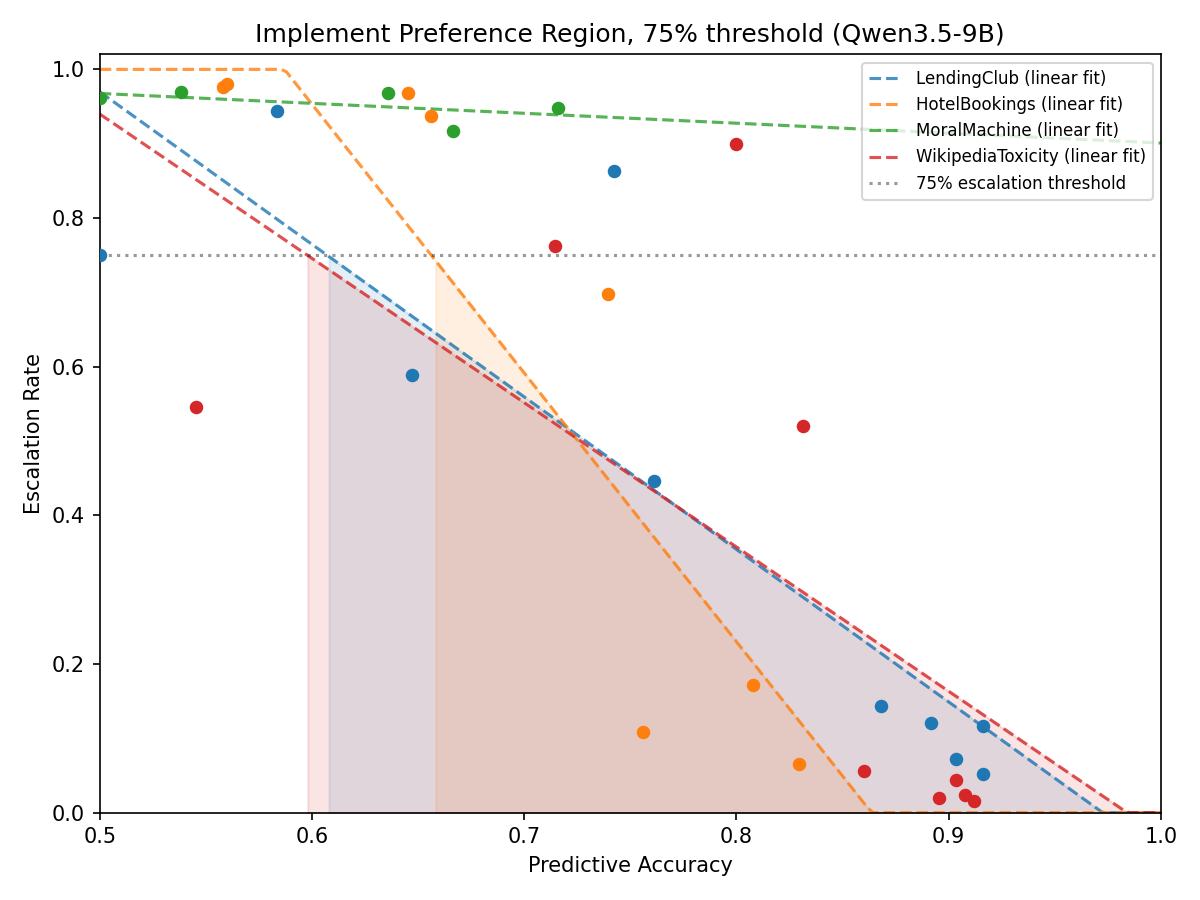
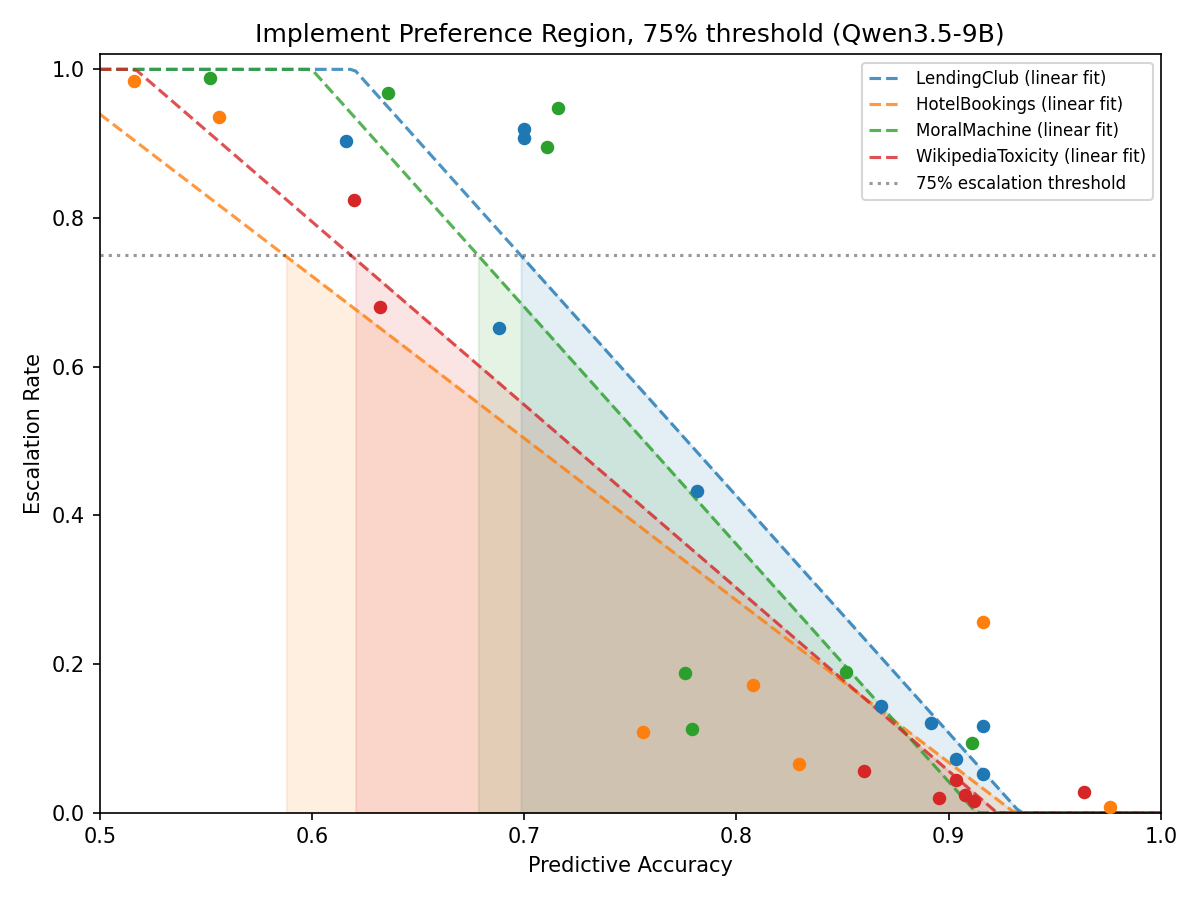
Update p75 plots: escalation x-axis now predictive accuracy, refresh with latest data

diff --git a/scripts/study3_plots_p75.py b/scripts/study3_plots_p75.py
@@ -90,15 +90,15 @@ for ds in ['LendingClub', 'HotelBookings', 'MoralMachine', 'WikipediaToxicity']:
     if ds not in datasets:
         continue
     rows = datasets[ds]
-    x = [r['base_rate'] for r in rows]
+    x = [r['pred_acc'] for r in rows]
     y = [r['esc_rate'] for r in rows]
     se = [r['esc_se'] for r in rows]
     ax.errorbar(x, y, yerr=se, marker='o', capsize=3, label=ds, color=COLORS[ds])
-ax.axvline(0.75, color='black', linestyle=':', linewidth=1.5, label='75% base rate')
+ax.axvline(0.75, color='black', linestyle=':', linewidth=1.5, label='75% predictive accuracy')
 ax.axhline(0.50, color='black', linestyle=':', linewidth=1.5, label='50% escalation threshold')
-ax.set_xlabel('Base Rate (Hint Strength)')
+ax.set_xlabel('Predictive Accuracy')
 ax.set_ylabel('Escalation Rate')
-ax.set_title(f'Escalation Rate vs. Hint Strength ({MODEL})')
+ax.set_title(f'Escalation Rate vs. Predictive Accuracy ({MODEL})')
 ax.legend()
 ax.set_xlim(0.45, 1.02)
 ax.set_ylim(0, 1.02)
